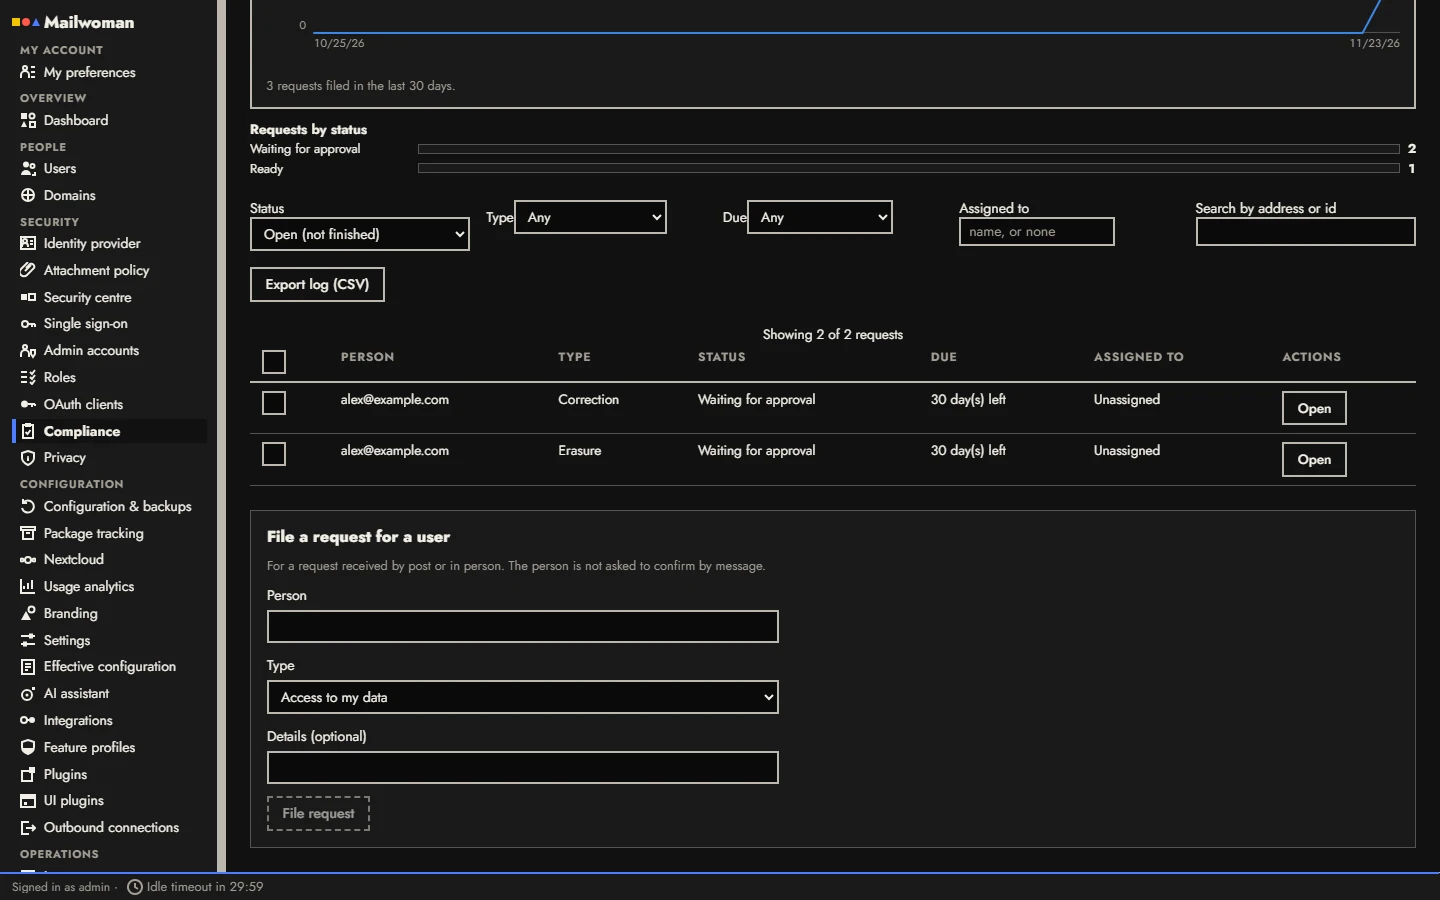
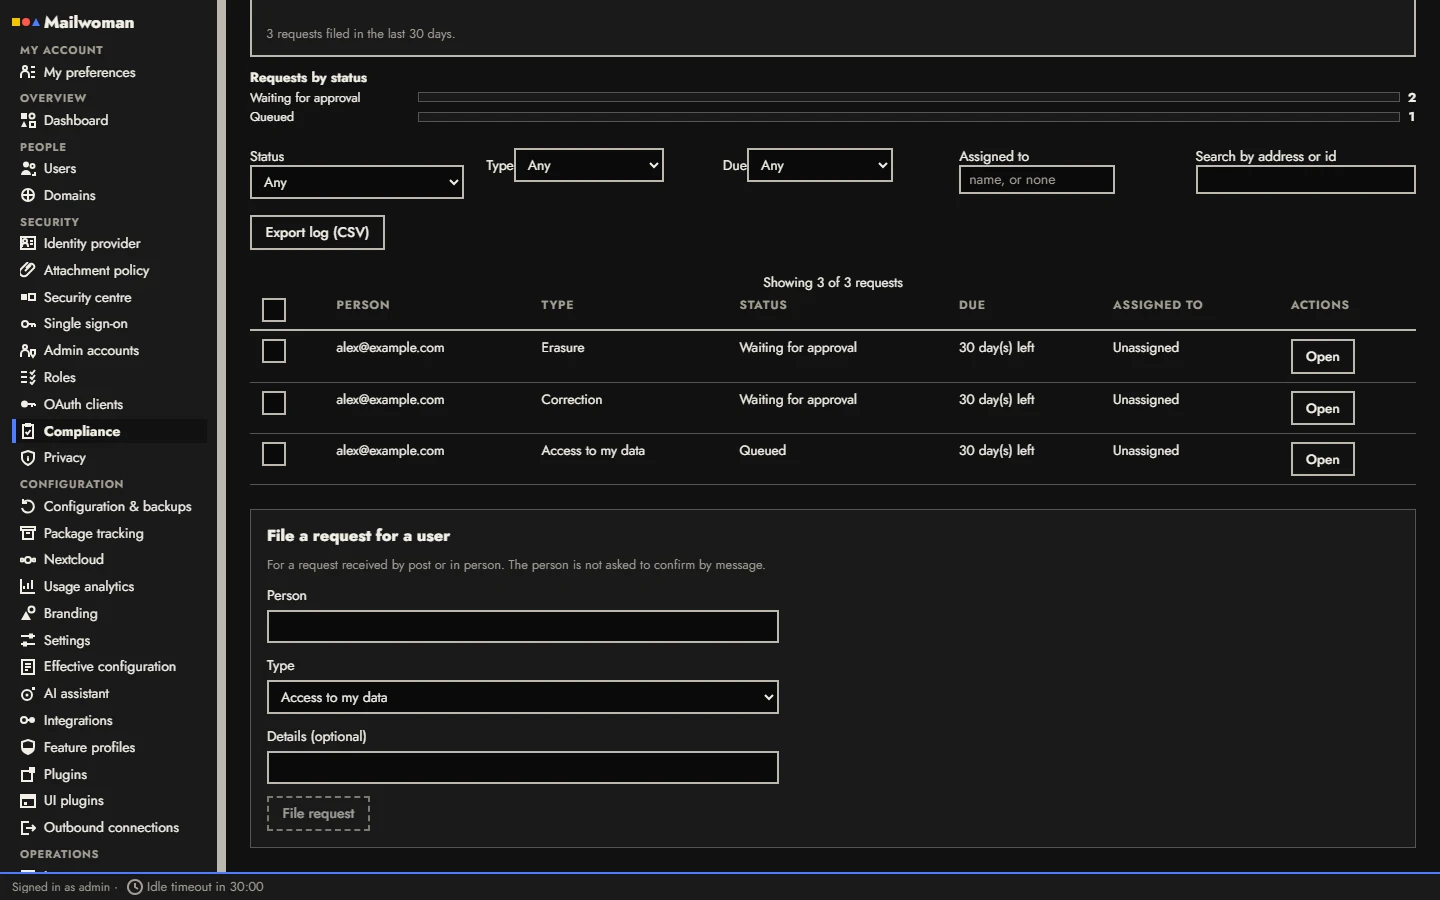
docs(admin): fix data request erasure order, attempts, API mail and kept records; consent ledger is not exported

diff --git a/docs/admin/data-requests.md b/docs/admin/data-requests.md
@@ -5,7 +5,7 @@ screen: true
 
 People can ask what this server holds about them, ask for a copy, and ask for their data to be corrected, erased or restricted, or object to a use of it. The **Data requests** tab of **Compliance** is the queue where you handle those requests. This page describes what the server does with each request. It does not say that handling requests this way meets any law: what a request must cover, who may make one and how quickly it must be answered is for your own legal advice.
 
-![The Data requests tab scrolled to the filters and the queue, with three open requests from alex@example.com: an access request, a correction and an erasure.](/screenshots/admin-privacy/dsr-queue.webp){.mw-shot}
+![The Data requests tab scrolled to the filters and the queue, with the status filter set to Any: three requests from alex@example.com, an access request, a correction and an erasure.](/screenshots/admin-privacy/dsr-queue.webp){.mw-shot}
 
 ## Before you start
 
@@ -95,9 +95,9 @@ The export is a ZIP file with a `manifest.json` that lists the sections, the fil
 
 The caps on sessions, sign-in history and audit entries are applied without a note in the manifest.
 
-**Mail** is included only when **Mail in exports** is on (off by default) and the person ticked the box when filing. It covers the messages this server has in its message list for the person's accounts, up to 100,000 per account. A body that is not cached is fetched again from the upstream mail server, so the export includes mail that lives upstream. Attachments are inside the messages. The manifest always carries the sentence "Mail that stays on the upstream mail server is not part of this export", whatever the export contains. A request filed by an administrator never includes mail.
+**Mail** is included only when **Mail in exports** is on (off by default) and the person ticked the box when filing. It covers the messages this server has in its message list for the person's accounts, up to 100,000 per account. A body that is not cached is fetched again from the upstream mail server, so the export includes mail that lives upstream. Attachments are inside the messages. The manifest always carries the sentence "Mail that stays on the upstream mail server is not part of this export", whatever the export contains. The console form for filing a request on someone's behalf never asks for mail; a request filed through the console API (`POST /dsr` with `includeMail`) can include it when **Mail in exports** is on.
 
-**Not exported**: drafts saved on the server, signatures saved apart from an identity, tasks, mail state such as flags and folders, security records, connected services, delegations, usage records and uploaded files. These parts of the server's data map have no export switch and are always left out.
+**Not exported**: drafts saved on the server, signatures saved apart from an identity, tasks, mail state such as flags and folders, security records, connected services, delegations, usage records, and the "records" section: the consent ledger, restrictions, retention rules, open-tracking data, uploaded files and data-loss-prevention decisions. These parts of the server's data map have no export switch and are always left out.
 
 **Size**: an export stops at **Export size cap** (500 MB by default). A section that would go over it is left out and the manifest says so; this can leave out all mail.
 
@@ -112,14 +112,13 @@ When an erasure runs, the server:
 1. Checks for a legal hold.
 2. Sends the person a notice that the erasure is about to run.
 3. Removes the person's documents from the search index, ends their sessions, and deletes message embeddings and compliance email records.
-4. Runs every delete rule of the erasure registry, ending with the account rows, whose deletion also removes cached mail, calendars, contacts and notes.
-5. Deletes uploaded files.
-6. Marks the directory entry as deleted, so the address can no longer sign in and the entry cannot be reactivated.
-7. Deletes stored exports for the same address.
-8. Counts the remaining rows of every deleted table, then writes an erasure tombstone (a keyed hash of the address, used to repeat the erasure after a restore).
-9. With **Scrub after erasure** on (off by default), replaces the person's identifiers in the audit history and log files (see [Erasure and scrubbing](#erasure-and-scrubbing)).
+4. Deletes uploaded files, then runs every delete rule of the erasure registry, ending with the account rows, whose deletion also removes cached mail, calendars, contacts and notes.
+5. Marks the directory entry as deleted, so the address can no longer sign in and the entry cannot be reactivated.
+6. Counts the remaining rows of every deleted table and, when none remain, writes an erasure tombstone (a keyed hash of the address, used to repeat the erasure after a restore).
+7. With **Scrub after erasure** on (off by default), replaces the person's identifiers in the audit history and log files (see [Erasure and scrubbing](#erasure-and-scrubbing)).
+8. Deletes stored exports for the same address.
 
-If rows remain or a step fails, it tries again up to three times, 60 seconds apart, and then marks the request **Failed, will be retried**. The tables the registry covers, and what each rule does, are listed in the generated [Erasure coverage](erasure-coverage.md) page.
+If rows remain or a step fails, the erasure is scheduled again 60 seconds later; after three attempts in total the request is marked **Failed, will be retried**, and **Run now** starts it again. The tables the registry covers, and what each rule does, are listed in the generated [Erasure coverage](erasure-coverage.md) page.
 
 The completion record lists the per-table counts, the number of export parts deleted, and a digest of the record. The digest is an unkeyed hash, not a signature.
 
@@ -129,7 +128,7 @@ Erasure does **not** remove:
 - **Backups.** They are not changed. Restoring a backup with the `mailwoman erasure restore` command repeats the erasures recorded since the backup, when **Replay erasures on restore** is on.
 - **The request itself.** The request, its free-text details and its trail, including identity-check notes, are kept for **Finished request retention** (1825 days by default).
 - **The audit log and log files.** Entries that name the person stay unless the person is scrubbed.
-- **Records the registry keeps on purpose**: bans, the identity record, client error reports, and the retention archive, which keeps archived rows until each archive file expires.
+- **Records the registry keeps on purpose**: single sign-on, assistant and alert records and the breach trail and delivery log (kept for their retention periods; a scrub replaces the person's identifiers in them), breach incidents themselves, including any affected addresses entered in them, bans, the identity record, client error reports, group definitions, administrator accounts, and the retention archive, which keeps archived rows until each archive file expires. The generated [Erasure coverage](erasure-coverage.md) page lists every table and why it is kept.
 
 ### Erasure and scrubbing
 

diff --git a/docs/admin/consent.md b/docs/admin/consent.md
@@ -57,7 +57,7 @@ A restriction acts only inside this server. It does not reach the upstream mail 
 3. **Export ledger (CSV)** downloads every decision: time, domain, purpose, decision, text version, legal basis, source and account id. The export is recorded in the audit log.
 4. Edit the settings of each purpose in the **Settings** section below the charts. This tab sets values for all domains; to set a value for one domain, use the **Settings** screen of the console.
 
-People record decisions under **Settings > Privacy** in the mail app; the server does not ask them with a prompt or a dialog. A decision is stored with the purpose, the decision, the text version, the legal basis shown, the source (`settings`, or `dsr` when an approved objection withdrew it), the time and the account id. It holds no address, IP address or browser details. The ledger is part of the person's data export and is deleted when the person is erased.
+People record decisions under **Settings > Privacy** in the mail app; the server does not ask them with a prompt or a dialog. A decision is stored with the purpose, the decision, the text version, the legal basis shown, the source (`settings`, or `dsr` when an approved objection withdrew it), the time and the account id. It holds no address, IP address or browser details. The ledger is deleted when the person is erased. It is not part of the person's data export: it belongs to an export section that has no export switch and is always left out (see [What an export contains](data-requests.md#what-an-export-contains)).
 
 ### Purposes
 
